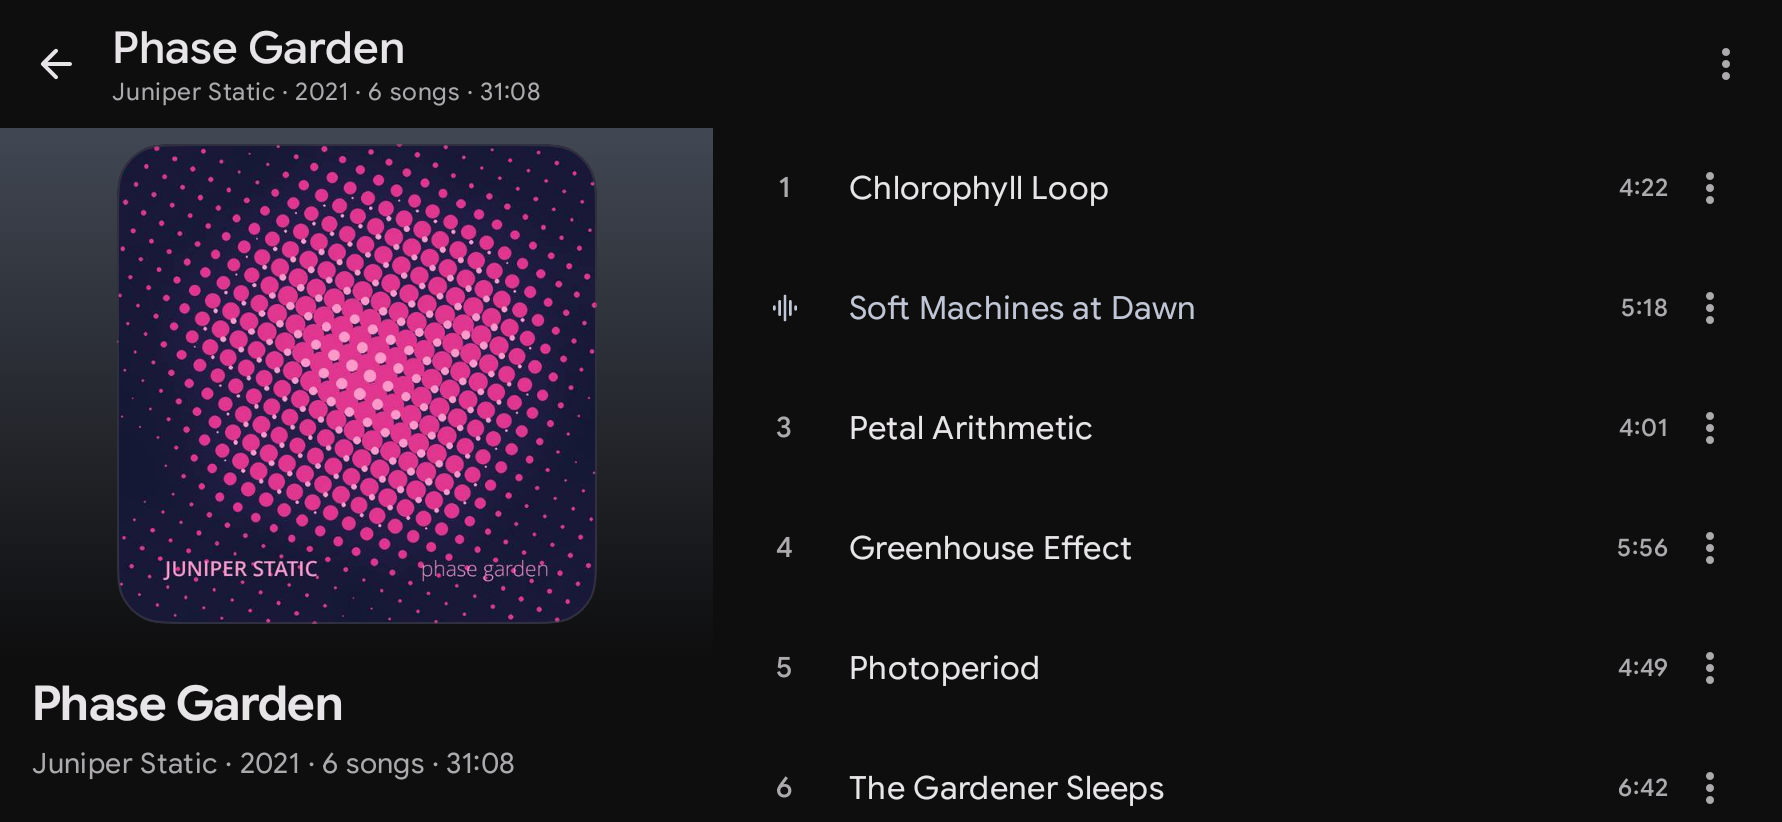
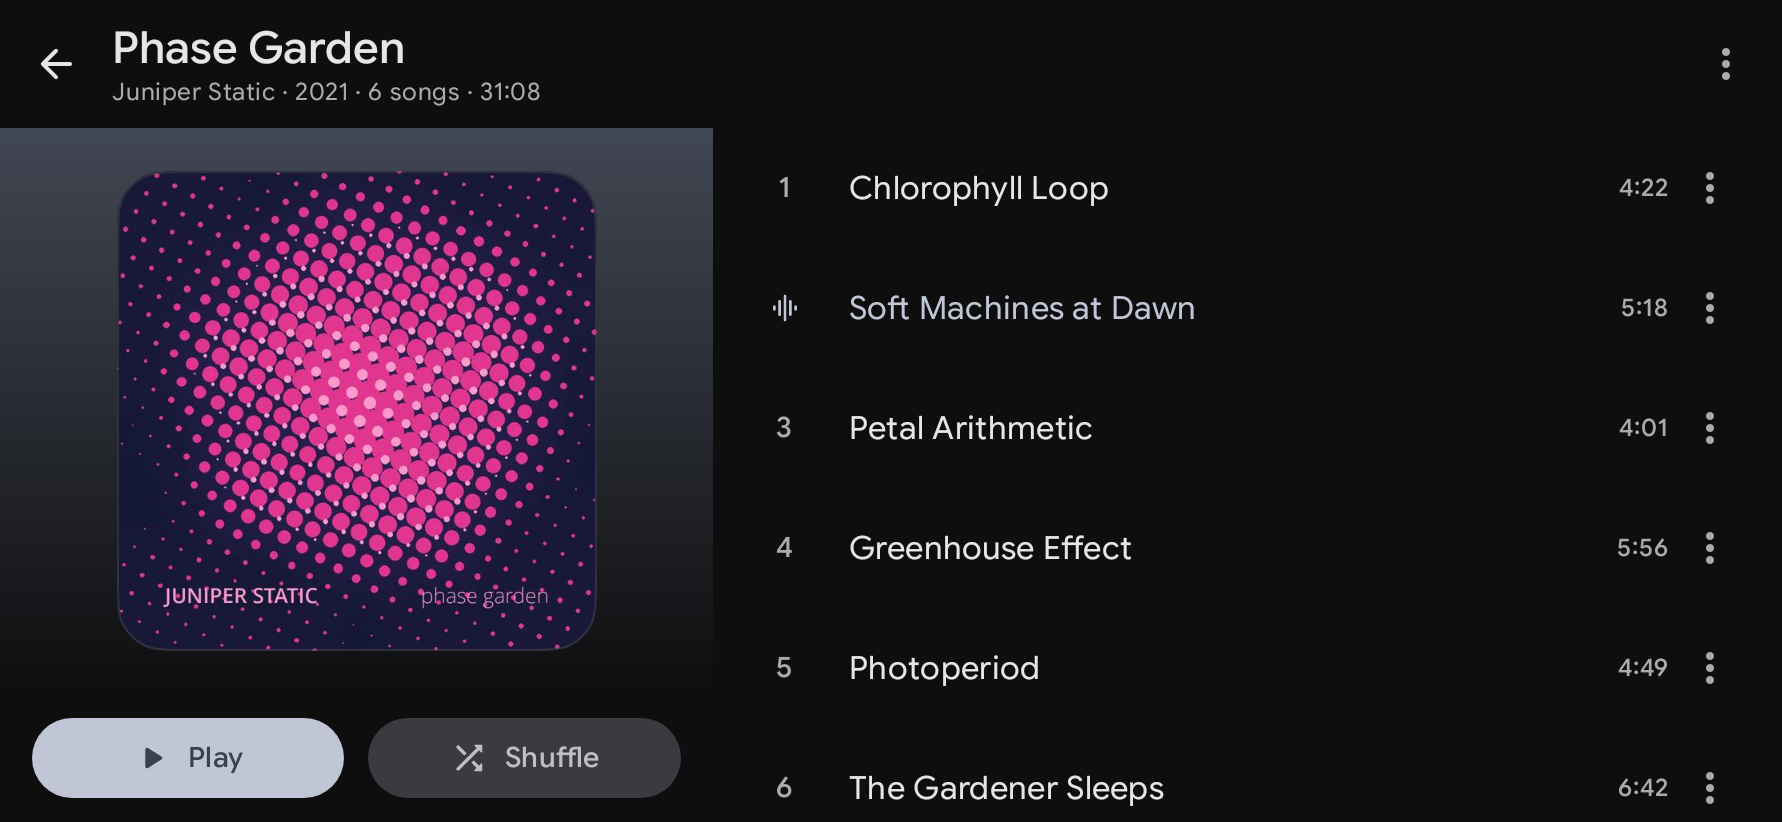
fix(app): landscape detail keeps play and shuffle in view; search header returns
Refs #1010

Changelog: none

Changed region(s): [[0.0617, 0.1521, 0.3395, 0.7908], [0.0, 0.8212, 0.4012, 0.9732]]

diff --git a/android/designsystem/src/main/java/com/simplecityapps/shuttle/designsystem/component/DetailHero.kt b/android/designsystem/src/main/java/com/simplecityapps/shuttle/designsystem/component/DetailHero.kt
@@ -9,6 +9,7 @@ import androidx.compose.foundation.layout.aspectRatio
 import androidx.compose.foundation.layout.fillMaxHeight
 import androidx.compose.foundation.layout.fillMaxSize
 import androidx.compose.foundation.layout.fillMaxWidth
+import androidx.compose.foundation.layout.height
 import androidx.compose.foundation.layout.padding
 import androidx.compose.material.icons.Icons
 import androidx.compose.material.icons.rounded.PlayArrow
@@ -47,8 +48,32 @@ fun DetailHero(
     modifier: Modifier = Modifier,
     topInset: Dp = 0.dp,
     extra: @Composable () -> Unit = {},
+    columnHeight: Dp = Dp.Unspecified,
 ) {
     val colors = MaterialTheme.colorScheme
+    if (columnHeight != Dp.Unspecified) {
+        // Beside the list the bar already carries the title, so the artwork takes whatever height the actions leave.
+        Column(modifier.fillMaxWidth().height(columnHeight).testTag("detail-hero")) {
+            Box(
+                modifier = Modifier
+                    .fillMaxWidth()
+                    .weight(1f)
+                    .background(Brush.verticalGradient(listOf(colors.primaryContainer, colors.surface)))
+                    .padding(vertical = S2Spacing.small),
+                contentAlignment = Alignment.Center,
+            ) {
+                Box(Modifier.fillMaxHeight().aspectRatio(1f), contentAlignment = Alignment.Center) { artwork() }
+            }
+            Column(
+                modifier = Modifier.fillMaxWidth().padding(horizontal = S2Spacing.medium, vertical = S2Spacing.small),
+                verticalArrangement = Arrangement.spacedBy(S2Spacing.xsmall),
+            ) {
+                actions()
+                extra()
+            }
+        }
+        return
+    }
     Column(modifier.fillMaxWidth().testTag("detail-hero")) {
         Box(
             modifier = Modifier
@@ -87,7 +112,29 @@ fun DetailBleedHero(
     actions: @Composable () -> Unit,
     modifier: Modifier = Modifier,
     extra: @Composable () -> Unit = {},
+    columnHeight: Dp = Dp.Unspecified,
 ) {
+    if (columnHeight != Dp.Unspecified) {
+        // Beside the list the bar already carries the title; the image takes the height the actions leave.
+        Column(modifier.fillMaxWidth().height(columnHeight).testTag("detail-hero")) {
+            Box(
+                Modifier
+                    .fillMaxWidth()
+                    .weight(1f)
+                    .clipToBounds()
+                    .background(MaterialTheme.colorScheme.surfaceContainerHighest)
+                    .testTag("detail-hero-image"),
+            ) { image() }
+            Column(
+                modifier = Modifier.fillMaxWidth().padding(horizontal = S2Spacing.medium, vertical = S2Spacing.smallMedium),
+                verticalArrangement = Arrangement.spacedBy(S2Spacing.xsmall),
+            ) {
+                actions()
+                extra()
+            }
+        }
+        return
+    }
     Column(modifier.fillMaxWidth().testTag("detail-hero")) {
         BoxWithConstraints(Modifier.fillMaxWidth()) {
             Box(

diff --git a/android/app/src/main/java/com/simplecityapps/shuttle/ui/common/components/DetailScaffold.kt b/android/app/src/main/java/com/simplecityapps/shuttle/ui/common/components/DetailScaffold.kt
@@ -2,6 +2,7 @@ package com.simplecityapps.shuttle.ui.common.components
 
 import androidx.compose.foundation.layout.Box
 import androidx.compose.foundation.layout.BoxScope
+import androidx.compose.foundation.layout.BoxWithConstraints
 import androidx.compose.foundation.layout.Column
 import androidx.compose.foundation.layout.PaddingValues
 import androidx.compose.foundation.layout.Row
@@ -47,8 +48,9 @@ import com.simplecityapps.shuttle.ui.shell.adaptive.LocalShellLayout
  * [heroBleeds]: the hero is a `DetailBleedHero`, whose image runs up behind the bar, so the bar's icons are white over it.
  * [overlay] draws over the list, under the bar, given the bar's height (an artist page's pinned album header, #631).
  *
- * At compact height (a landscape phone) a [hero] takes the leading 40% and scrolls on its own beside the list, below an
- * opaque bar; [overlay] then sits over the list column and is given no inset.
+ * At compact height (a landscape phone) a [hero] takes the leading 40% beside the list, below an opaque bar that keeps
+ * the title; [overlay] then sits over the list column and is given no inset. The hero is given the column's height
+ * (otherwise [Dp.Unspecified]) to fit its artwork and actions into without scrolling.
  */
 @OptIn(ExperimentalMaterial3Api::class)
 @Composable
@@ -58,7 +60,7 @@ fun DetailScaffold(
     onNavigateUp: () -> Unit,
     modifier: Modifier = Modifier,
     listState: LazyListState = rememberLazyListState(),
-    hero: (@Composable (topInset: Dp) -> Unit)? = null,
+    hero: (@Composable (topInset: Dp, columnHeight: Dp) -> Unit)? = null,
     heroBleeds: Boolean = false,
     actions: @Composable RowScope.() -> Unit = {},
     overlay: (@Composable BoxScope.(topInset: Dp) -> Unit)? = null,
@@ -95,7 +97,10 @@ fun DetailScaffold(
         val layoutDirection = LocalLayoutDirection.current
         if (hero != null && twoColumns) {
             Row(Modifier.fillMaxSize().padding(innerPadding)) {
-                Column(Modifier.weight(HeroColumnWeight).fillMaxHeight().verticalScroll(rememberScrollState())) { hero(0.dp) }
+                BoxWithConstraints(Modifier.weight(HeroColumnWeight).fillMaxHeight()) {
+                    val columnHeight = maxHeight
+                    Column(Modifier.fillMaxSize().verticalScroll(rememberScrollState())) { hero(0.dp, columnHeight) }
+                }
                 Box(Modifier.weight(1f - HeroColumnWeight).fillMaxHeight()) {
                     LazyColumn(modifier = Modifier.fillMaxSize(), state = listState) { content() }
                     overlay?.invoke(this, 0.dp)
@@ -118,7 +123,7 @@ fun DetailScaffold(
                 },
             ) {
                 if (hero != null) {
-                    item(key = "detail-hero", contentType = "hero") { hero(innerPadding.calculateTopPadding()) }
+                    item(key = "detail-hero", contentType = "hero") { hero(innerPadding.calculateTopPadding(), Dp.Unspecified) }
                 }
                 content()
             }

diff --git a/android/app/src/main/java/com/simplecityapps/shuttle/ui/screens/library/LibraryDetailComponents.kt b/android/app/src/main/java/com/simplecityapps/shuttle/ui/screens/library/LibraryDetailComponents.kt
@@ -91,7 +91,7 @@ fun LibraryDetailScaffold(
             modifier = modifier,
             listState = listState,
             heroBleeds = bleed,
-            hero = { topInset ->
+            hero = { topInset, columnHeight ->
                 val playShuffle: @Composable () -> Unit = {
                     S2ButtonGroup(
                         primary = S2GroupAction(stringResource(R.string.menu_title_play), onPlay, Icons.Rounded.PlayArrow),
@@ -99,7 +99,7 @@ fun LibraryDetailScaffold(
                     )
                 }
                 if (bleed) {
-                    DetailBleedHero(title = title, subtitle = subtitle, image = { BleedArtwork(artwork) }, actions = playShuffle, extra = header)
+                    DetailBleedHero(title = title, subtitle = subtitle, image = { BleedArtwork(artwork) }, actions = playShuffle, extra = header, columnHeight = columnHeight)
                 } else {
                     DetailHero(
                         title = title,
@@ -108,6 +108,7 @@ fun LibraryDetailScaffold(
                         artwork = { LibraryArtwork(model = artwork, placeholder = placeholder, modifier = Modifier.sharedArtwork(artworkKey), size = ArtworkSize.Hero) },
                         actions = playShuffle,
                         extra = header,
+                        columnHeight = columnHeight,
                     )
                 }
             },

diff --git a/android/app/src/main/java/com/simplecityapps/shuttle/ui/screens/search/SearchScreen.kt b/android/app/src/main/java/com/simplecityapps/shuttle/ui/screens/search/SearchScreen.kt
@@ -34,6 +34,7 @@ import androidx.compose.ui.Modifier
 import androidx.compose.ui.draw.clipToBounds
 import androidx.compose.ui.focus.FocusRequester
 import androidx.compose.ui.focus.focusRequester
+import androidx.compose.ui.focus.onFocusChanged
 import androidx.compose.ui.input.nestedscroll.nestedScroll
 import androidx.compose.ui.layout.layout
 import androidx.compose.ui.platform.LocalFocusManager
@@ -106,6 +107,8 @@ fun SearchScreen(
     }
 
     val scrollBehavior = TopAppBarDefaults.enterAlwaysScrollBehavior()
+    // A result set too short to scroll can't bring a hidden header back, so new content always starts with it shown.
+    LaunchedEffect(uiState.content) { scrollBehavior.state.heightOffset = 0f }
     Column(
         modifier
             .fillMaxSize()
@@ -127,7 +130,8 @@ fun SearchScreen(
                 },
                 modifier = Modifier
                     .padding(horizontal = S2Spacing.medium, vertical = S2Spacing.small)
-                    .fillMaxWidth(),
+                    .fillMaxWidth()
+                    .onFocusChanged { if (it.isFocused) scrollBehavior.state.heightOffset = 0f },
             )
             Row(
                 horizontalArrangement = Arrangement.spacedBy(S2Spacing.small),

diff --git a/android/app/src/test/java/com/simplecityapps/shuttle/ui/screens/library/LibraryScreenshotTest.kt b/android/app/src/test/java/com/simplecityapps/shuttle/ui/screens/library/LibraryScreenshotTest.kt
@@ -239,6 +239,25 @@ class LibraryScreenshotTest {
         shot(name)
     }
 
+    /** A landscape phone's artist page: the bleed image and actions beside the albums. */
+    @Test
+    @Config(qualifiers = "w891dp-h411dp-xhdpi")
+    fun landscapeArtistDetail() {
+        val artist = SampleLibrary.artist("Juniper Static")
+        val artistSongs = artist.albums.flatMap { album -> album.songs.map { it.toSong() } }
+        val artistAlbums = artist.albums.map { album -> albumOf(album.songs.map { it.toSong() }, year = album.year) }
+        detail.setAlbumArtist(
+            readyAlbumArtistDetail(
+                artist = artist.toAlbumArtist(),
+                songs = artistSongs,
+                albums = artistAlbums,
+                expandedAlbums = setOfNotNull(artistAlbums.first().groupKey),
+            ),
+            compactHeight = true,
+        )
+        shot("landscape-artist-detail")
+    }
+
     @Test
     @Config(qualifiers = "w411dp-h891dp-xhdpi")
     fun phoneArtistDetail() {

diff --git a/android/designsystem/src/main/java/com/simplecityapps/shuttle/designsystem/component/TopBar.kt b/android/designsystem/src/main/java/com/simplecityapps/shuttle/designsystem/component/TopBar.kt
@@ -60,7 +60,7 @@ fun S2LargeTopBar(
 }
 
 /**
- * The one-row bar, pinned unless the screen passes an `enterAlwaysScrollBehavior` (a landscape phone's Library and Search): on sub-screens (Settings' sub-pages among them), and over the Library container's section chips, where only the chips stay pinned under it and each tab's
+ * The one-row bar, pinned unless the caller passes a scroll behavior: on sub-screens (Settings' sub-pages among them), and over the Library container's section chips, where only the chips stay pinned under it and each tab's
  * controls row scrolls away with its page.
  */
 @OptIn(ExperimentalMaterial3Api::class)

diff --git a/android/app/src/test/java/com/simplecityapps/shuttle/ui/screens/library/LibraryDetailRobot.kt b/android/app/src/test/java/com/simplecityapps/shuttle/ui/screens/library/LibraryDetailRobot.kt
@@ -94,7 +94,7 @@ class LibraryDetailRobot(private val rule: ComposeContentTestRule) {
         AlbumDetailScreen(uiState, onNavigateUp = ::up, onPlay = ::play, onShuffle = ::shuffle, onAlbumMore = ::more, onSongMore = ::more, onOpenAlbum = { lastAlbumClicked = it }, onMoreByAlbumMore = ::more)
     }
 
-    fun setAlbumArtist(uiState: AlbumArtistDetailUiState) = render {
+    fun setAlbumArtist(uiState: AlbumArtistDetailUiState, compactHeight: Boolean = false) = render(compactHeight) {
         AlbumArtistDetailScreen(
             uiState,
             onNavigateUp = ::up,
